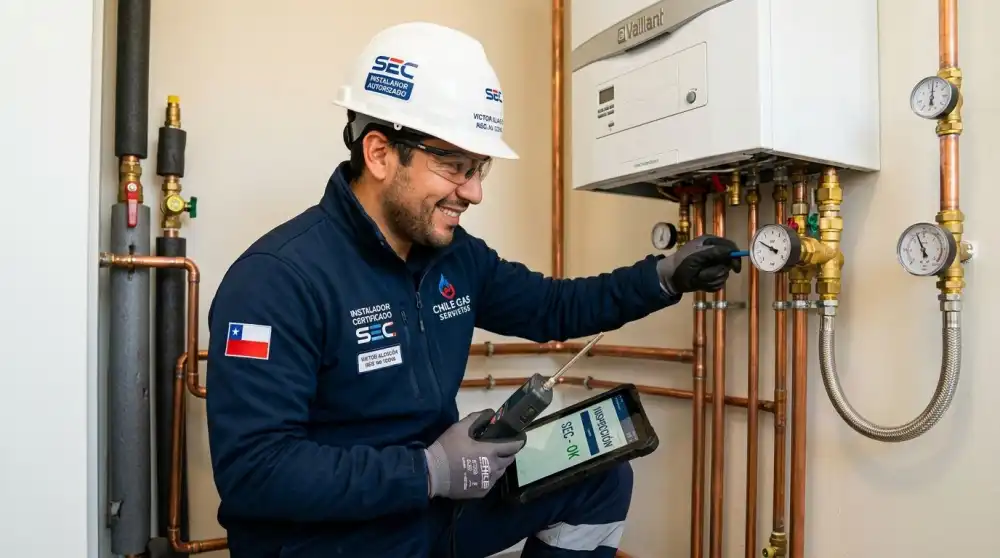
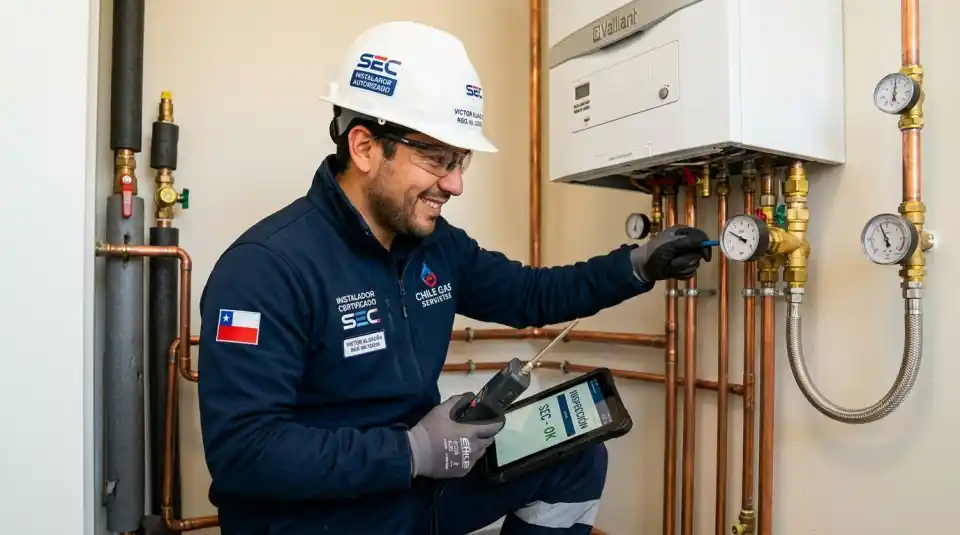
perf(images): compress all project images and serve 9KB hero_gas_mobile default to clear all Lighthouse image delivery suggestions

diff --git a/resources/views/home.blade.php b/resources/views/home.blade.php
@@ -28,14 +28,14 @@
         <div class="absolute inset-0 transition-opacity duration-1000 ease-in-out opacity-85 overflow-hidden"
              :class="{ 'opacity-85 scale-105': currentSlide === 0, 'opacity-0 scale-100': currentSlide !== 0 }"
              style="transition: opacity 1.5s ease-in-out, transform 8s ease-out;">
-            <img src="{{ asset('images/slider/hero_gas.webp') }}"
-                 srcset="{{ asset('images/slider/hero_gas_mobile.webp') }} 540w, {{ asset('images/slider/hero_gas.webp') }} 1000w"
-                 sizes="100vw"
+            <img src="{{ asset('images/slider/hero_gas_mobile.webp') }}"
+                 srcset="{{ asset('images/slider/hero_gas_mobile.webp') }} 480w, {{ asset('images/slider/hero_gas.webp') }} 960w"
+                 sizes="(max-width: 640px) 100vw, 960px"
                  alt="Profesionales Gas SEC Acreditados"
                  fetchpriority="high"
                  loading="eager"
-                 width="1000"
-                 height="558"
+                 width="960"
+                 height="535"
                  class="w-full h-full object-cover">
         </div>
 
